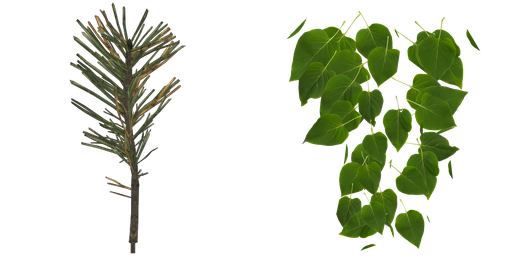
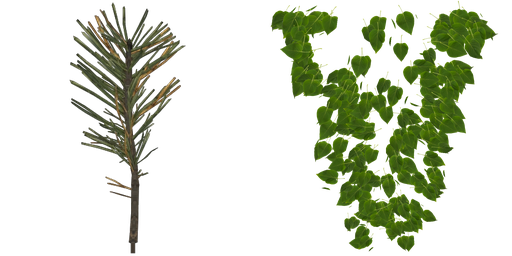
The leaves were the right leaves at the wrong size
A poplar leaf is five to ten centimetres. The cards they were painted on
were most of two metres across, with a third of a card to a leaf — so
the tree came out hung with dinner plates, which is a thing no amount of
correct photograph fixes. The texture was never the problem; the scale
it was drawn at was.

So: half a metre of card, a leaf at about a tenth of it, and something
over a hundred leaves to a card rather than thirty. Smaller cards need
more of them to make a crown, which is fourteen rings of seven — and the
gaps between them stop being holes at that count, which is the other
half of why it now reads as foliage rather than as a column of flags.

Changed region(s): [[0.5312, 0.0312, 0.9688, 1.0]]

diff --git a/examples/webgpu/world/host.js b/examples/webgpu/world/host.js
@@ -15,8 +15,8 @@
 // The plumbing — WASI shim, instantiation, init — is `world.js`, which
 // `rill build` generates beside the module.
 
-import { load } from "./world.js?v=408";   // keep in step with V below
-import { join, WH } from "./net.js?v=408";
+import { load } from "./world.js?v=409";   // keep in step with V below
+import { join, WH } from "./net.js?v=409";
 
 // One number, appended to every asset URL.
 //
@@ -26,7 +26,7 @@ import { join, WH } from "./net.js?v=408";
 // and there is no purging it without a token. A version in the query string
 // makes a new file a new URL, which is the only cache invalidation that needs
 // nobody's permission. Bump it with `?v=` in index.html.
-const V = "408";
+const V = "409";
 
 // ---- what the machine can afford -------------------------------------------
 
@@ -459,19 +459,24 @@ function poplarMesh(coarse) {
   // you can count them. A branch's worth per card is what a crown is made of,
   // and it is also fewer cards for more foliage.
   const CU = 0.504, CV = 0.004, SPAN = 0.492;
-  const rings = coarse ? 4 : 9;
-  const perRing = coarse ? 2 : 4;
+  const rings = coarse ? 4 : 14;
+  const perRing = coarse ? 2 : 7;
   for (let i = 0; i < rings; i++) {
     const u = rings === 1 ? 0 : i / (rings - 1);   // 0 at the lowest ring, 1 at the tip
     const y = 1.15 + u * 3.60;
     // Widest at two fifths up, nothing at the very top.
     const lens = 1 - Math.pow(Math.abs(u - 0.40) / 0.62, 1.7);
-    const rad = Math.max(0.06, 0.46 * lens);
-    // Wider than the ring they stand on, so one ring's leaves reach past its
-    // neighbours' and the column reads as a mass with gaps in it rather than
-    // as a spiral staircase of cards.
-    const w = (1.05 + 0.65 * lens) * (coarse ? 2.0 : 1.0);
-    const hgt = (1.05 + 0.60 * lens) * (coarse ? 2.1 : 1.0);
+    const rad = Math.max(0.06, 0.42 * lens);
+    // Half a metre of card, near enough, which is what puts the leaves on it
+    // at five to ten centimetres — a poplar leaf. The first pass had cards
+    // most of two metres across and hung the tree with dinner plates: the
+    // texture was not wrong, the scale it was drawn at was.
+    //
+    // Small cards mean more of them, and more of them is what makes a crown
+    // out of a column: one ring's leaves reach past its neighbours' and the
+    // gaps stop being holes.
+    const w = (0.42 + 0.26 * lens) * (coarse ? 3.6 : 1.0);
+    const hgt = (0.44 + 0.26 * lens) * (coarse ? 3.8 : 1.0);
     for (let j = 0; j < perRing; j++) {
       // Turned ring by ring by an angle that never repeats, so the column
       // does not stack into visible columns of card.

diff --git a/examples/webgpu/world/index.html b/examples/webgpu/world/index.html
@@ -130,7 +130,7 @@
     // including the boot logic, the page's modules and world.wasm itself.
     // What is left here is the one thing that cannot come out of a file the
     // page has not fetched yet: fetching the file.
-    const AV = "408";
+    const AV = "409";
 
     const bar = document.getElementById("bar");
     const what = document.getElementById("what");

diff --git a/examples/webgpu/world/tools/bake_poplar.py b/examples/webgpu/world/tools/bake_poplar.py
@@ -41,28 +41,38 @@ S = 1024
 spray = Image.new("RGBA", (S, S), (0, 0, 0, 0))
 random.seed(11)
 
+# A leaf is five to ten centimetres and the card it lives on is most of a
+# metre, so a leaf has to be about a tenth of the card — not a third, which is
+# what the first spray had and which drew a tree hung with dinner plates. The
+# density then has to come from the count, and the count is what a photograph
+# of a branch actually has on it.
 def put(i, t, side, scale_mul=1.0):
     leaf = leaves[i % len(leaves)]
-    scale = (0.34 - 0.13 * t) * scale_mul * S / max(leaf.size)
+    scale = (0.15 - 0.05 * t) * scale_mul * S / max(leaf.size)
     l = leaf.resize((max(8, int(leaf.size[0] * scale)), max(8, int(leaf.size[1] * scale))),
                     Image.LANCZOS)
     # Hanging, turned, and never twice the same: two leaves at one angle read
     # as a pattern, and a pattern is what gives a texture away.
     ang = side * (48 + random.uniform(-40, 40)) + 180 + random.uniform(-25, 25)
     l = l.rotate(ang, expand=True, resample=Image.BICUBIC)
-    cx = S * 0.5 + side * (0.05 + 0.17 * (1 - t)) * S + random.uniform(-0.07 * S, 0.07 * S)
-    cy = S * (0.08 + 0.80 * t) + random.uniform(-0.04 * S, 0.04 * S)
+    cx = S * 0.5 + side * (0.04 + 0.26 * (1 - t)) * S + random.uniform(-0.10 * S, 0.10 * S)
+    cy = S * (0.05 + 0.88 * t) + random.uniform(-0.05 * S, 0.05 * S)
     spray.alpha_composite(l, (max(0, min(S - l.size[0], int(cx - l.size[0] / 2))),
                               max(0, min(S - l.size[1], int(cy - l.size[1] / 2)))))
 
-n = 11
+# Something over a hundred leaves to a card. That is not extravagance: at a
+# tenth of the card each, fewer than this is a branch you can see daylight
+# through from every angle, and a poplar in leaf is not a see-through thing.
+n = 42
 for i in range(n):
     t = i / (n - 1)
     put(i, t, -1)
     put(i + 3, t, 1)
-# And a few down the middle, smaller, so the card has no hole in it.
-for i in range(7):
-    put(i + 1, 0.12 + i * 0.13, 0, 0.82)
+    put(i + 5, t, -1, 0.86)
+    put(i + 1, t, 1, 0.86)
+# And a run down the middle, so the card has no hole in it.
+for i in range(30):
+    put(i + 1, 0.03 + i * 0.032, 0, 0.88)
 
 spray.resize((256, 256), Image.LANCZOS).save("poplar-spray.png")
 print("poplar-spray.png written")
